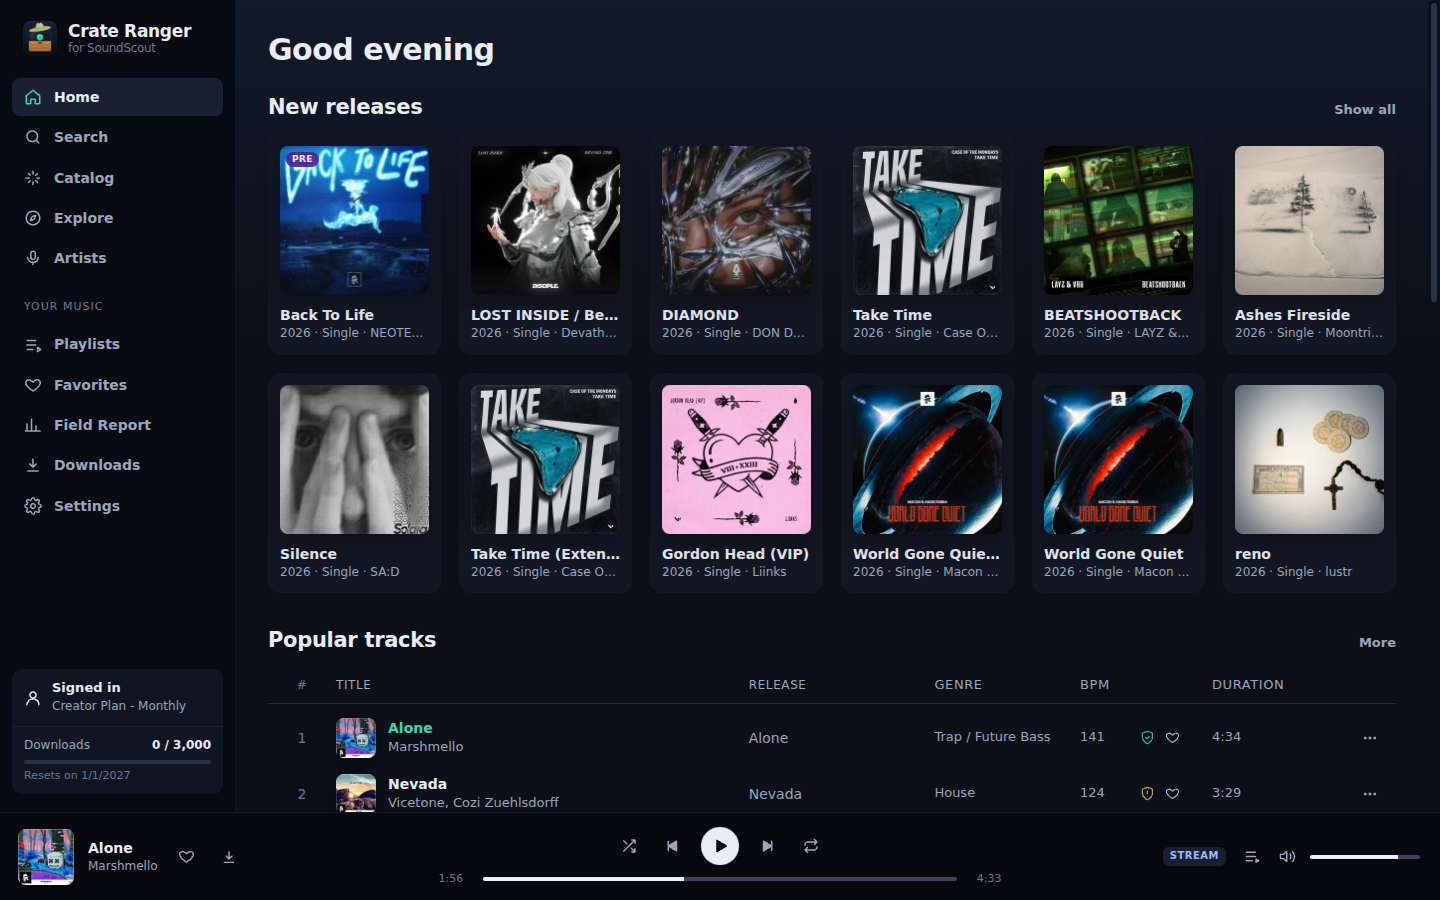
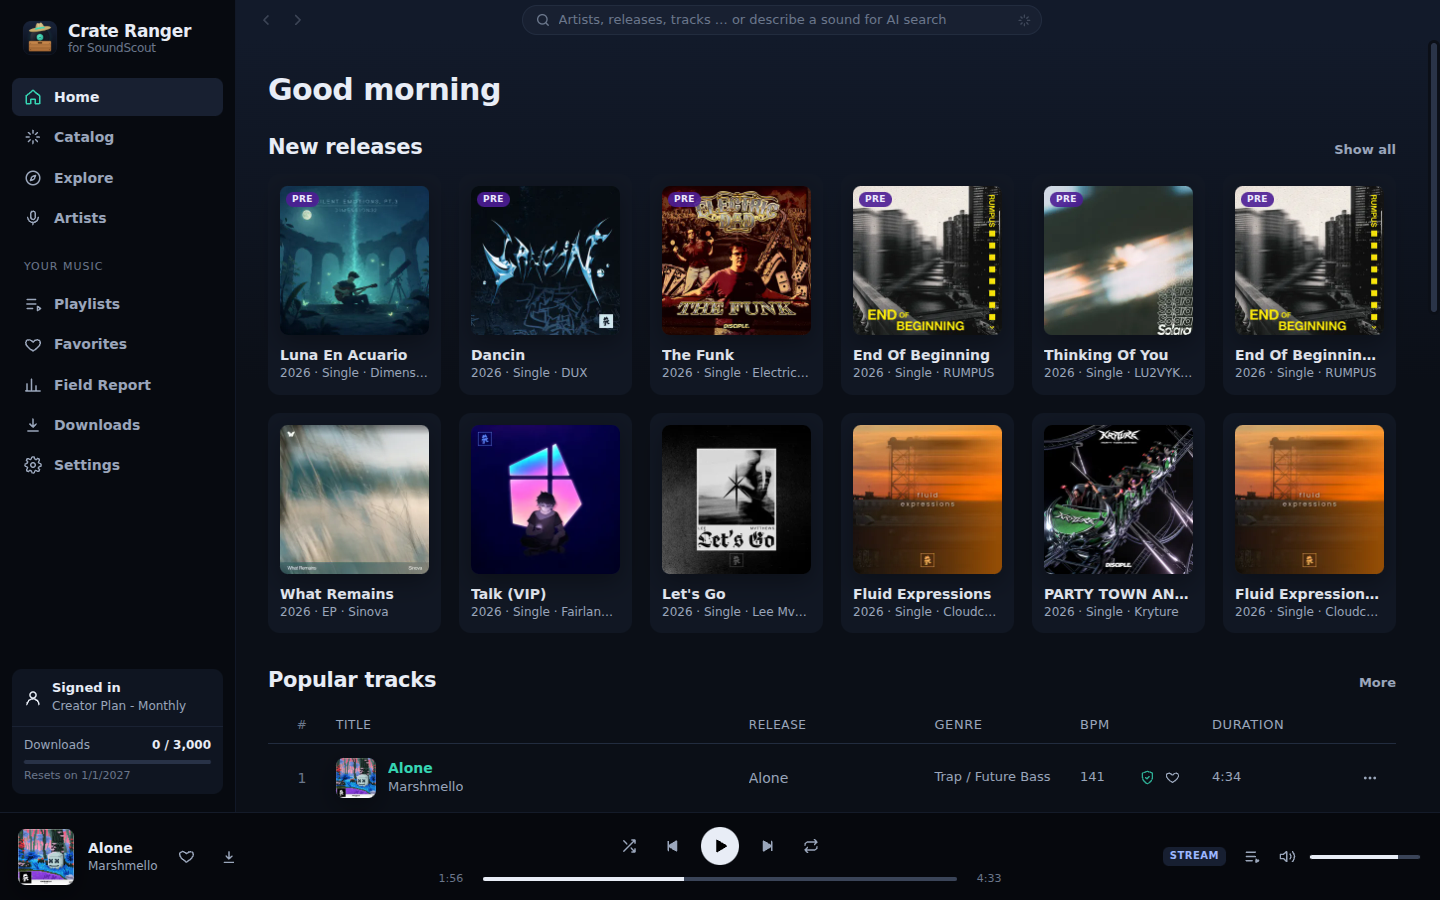
README: title bar, own playlists, right-click menus; new screenshots
Describe the title bar (search, back/forward), creating/renaming/deleting
playlists and adding tracks to them, and the track and playlist context menus.
Screenshots regenerated with the new title bar from a fresh demo profile.

diff --git a/README.de.md b/README.de.md
@@ -16,8 +16,10 @@ Bibliotheksverwaltung.
 - **Alles ist verlinkt**: Songtitel öffnen die Track-Seite (Metadaten, Stimmungen/Themen/Instrumente,
   Lyrics, „Erscheint auf“, ähnliche Tracks), Artist-Namen den Artist, Release-Titel und Cover das Release –
   in Listen, Karten, Player, Warteschlange, Downloads und Bibliothek.
-- **Suche**: Namenssuche (Artists, Releases, Playlists, Tracks …) und SoundScout-KI-Suche per Beschreibung;
-  „Ähnliche Tracks“ für jeden Track.
+- **Suche**: Namenssuche (Artists, Releases, Playlists, Tracks …) und SoundScout-KI-Suche per Beschreibung (Enter) –
+  direkt in der Titelleiste, von jeder Seite aus (<kbd>Strg</kbd>+<kbd>K</kbd>); „Ähnliche Tracks“ für jeden Track.
+- **Eigene Titelleiste** im Look der App mit **Zurück/Vor** (auch <kbd>Alt</kbd>+<kbd>←</kbd>/<kbd>→</kbd> und
+  Maus-Seitentasten); die Fensterknöpfe bleiben die des Systems, Windows-Snap-Layouts funktionieren weiter.
 - **Player**: Warteschlange, Zufall, Wiederholen, Spulen, Lautstärke, Windows-Medientasten.
   Eingeloggt in voller Länge (MP3 320). Heruntergeladene Tracks werden lokal abgespielt.
 - **Weiterhören**: Die App merkt sich Warteschlange, Track und Position – nach dem Neustart geht es mit „Play“
@@ -26,6 +28,10 @@ Bibliotheksverwaltung.
   ähnliche Tracks weiter – ohne Versionen von Songs, die schon liefen. Beim ersten Ende fragt die App einmal nach.
 - **Playlists & Favoriten** des eigenen Kontos. Ein Herz in der Player-Leiste (laufender Song), in jeder
   Trackzeile und auf der Track-Seite fügt Songs den SoundScout-Favoriten hinzu bzw. entfernt sie.
+  Eigene Playlists lassen sich anlegen, umbenennen (Klick auf den Titel), löschen und durchsuchen; Tracks kommen
+  über „Zur Playlist hinzufügen“ hinein (mit Suche, neue Playlist direkt dort anlegbar).
+- **Rechtsklick-Menüs** auf jedem Track – auch dem laufenden in der Player-Leiste – und auf Playlist-Karten:
+  als Nächstes spielen, zur Warteschlange, zur Playlist, ähnliche Tracks, zum Release, Download u. a.
 - **Downloads** (FLAC, MP3 320, WAV) für Track, Release, Playlist, Favoriten oder die geladenen Tracks
   einer Artist-/Katalogansicht, mit Warteschlange
   (parallel, pausier- und fortsetzbar). Bei Kontingent- oder Abo-Fehlern hält die Warteschlange an.

diff --git a/README.md b/README.md
@@ -26,8 +26,10 @@
 - **Browse** new releases, popular tracks, curated playlists, artists and the full catalog.
 - **Filter the catalog** by genre, mood, theme, instruments, release type, BPM range and “Copyright Safe”.
 - **Explore** genres, moods and themes as tiles.
-- **Search** by name (artists, releases, playlists, tracks) or describe a sound for SoundScout's **AI search**;
-  every track has **similar tracks**.
+- **Search** by name (artists, releases, playlists, tracks) or describe a sound for SoundScout's **AI search**
+  (Enter) – right in the title bar, from every page (<kbd>Ctrl</kbd>+<kbd>K</kbd>); every track has **similar tracks**.
+- **Custom title bar** in the app's look with **back / forward** (also <kbd>Alt</kbd>+<kbd>←</kbd>/<kbd>→</kbd> and the
+  mouse side buttons); the window buttons stay native, so Windows Snap Layouts keep working.
 - **Player** with queue, shuffle, repeat, seeking, volume and media keys – full-length streams (MP3 320) when signed in,
   downloaded tracks play from disk, even offline.
 - **Pick up where you left off** – queue, track and position are remembered; after a restart, *Play* continues
@@ -37,6 +39,10 @@
 - **Everything is a link** – song titles open the track page, artist names the artist, release titles and covers the release.
 - **Hover play** on every cover starts the whole single, EP or album.
 - **Favorites** – heart the current song in the player bar or any track in a list.
+- **Your playlists** – create, rename (click the title) and delete them, search them, and add tracks via
+  *Add to playlist* (with search; a new playlist can be created right there).
+- **Right-click menus** on every track – including the one playing in the player bar – and on playlist cards:
+  play next, add to queue, add to playlist, similar tracks, go to release, download and more.
 
 | Release | Catalog with filters |
 |---|---|
